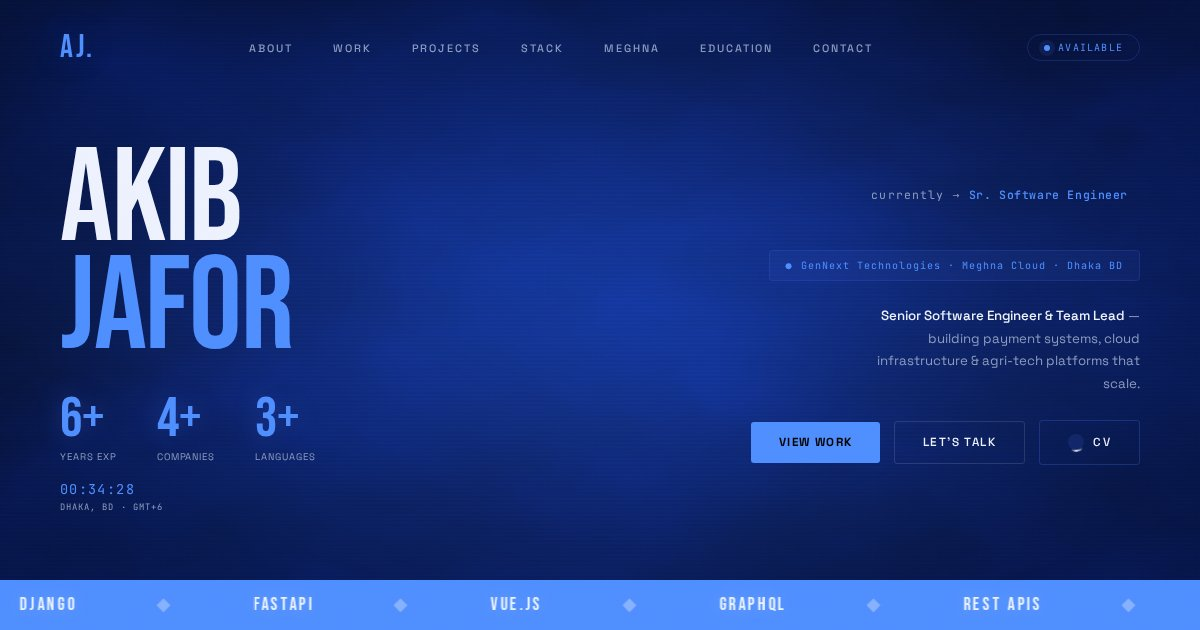
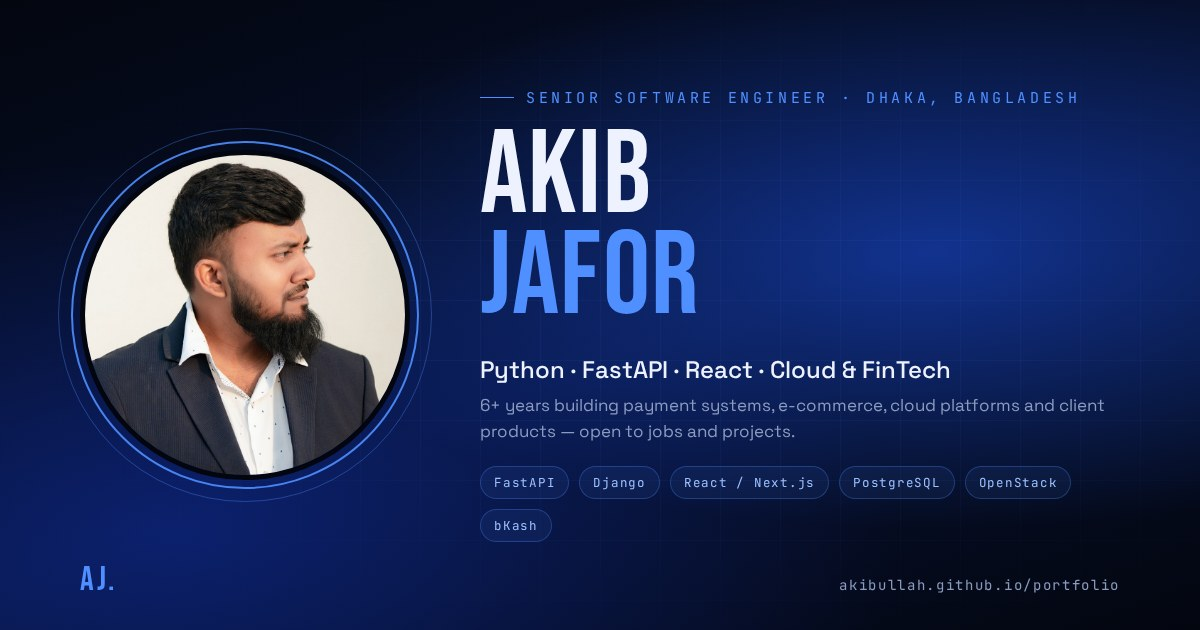
Social preview: headshot card with name, title and stack; bust preview caches

diff --git a/akib_final.html b/akib_final.html
@@ -11,10 +11,10 @@
 <meta property="og:description" content="Payment gateways, FastAPI/Django backends, OpenStack cloud platforms and Vue.js dashboards. 6+ years across FinTech, cloud and AgriTech. Dhaka, Bangladesh — open to jobs and client projects.">
 <meta property="og:type" content="website">
 <meta property="og:url" content="https://akibullah.github.io/portfolio/">
-<meta property="og:image" content="https://akibullah.github.io/portfolio/og-image.jpg">
+<meta property="og:image" content="https://akibullah.github.io/portfolio/og-image.jpg?v=2">
 <meta property="og:image:width" content="1200">
 <meta property="og:image:height" content="630">
-<meta name="twitter:image" content="https://akibullah.github.io/portfolio/og-image.jpg">
+<meta name="twitter:image" content="https://akibullah.github.io/portfolio/og-image.jpg?v=2">
 <meta name="twitter:description" content="Payment gateways, FastAPI/Django backends, OpenStack cloud platforms and Vue.js dashboards. 6+ years across FinTech, cloud and AgriTech. Dhaka, Bangladesh.">
 <meta property="og:locale" content="en_US">
 <meta property="og:site_name" content="Akib Jafor — Portfolio">

diff --git a/index.html b/index.html
@@ -11,10 +11,10 @@
 <meta property="og:description" content="Payment gateways, FastAPI/Django backends, OpenStack cloud platforms and Vue.js dashboards. 6+ years across FinTech, cloud and AgriTech. Dhaka, Bangladesh — open to jobs and client projects.">
 <meta property="og:type" content="website">
 <meta property="og:url" content="https://akibullah.github.io/portfolio/">
-<meta property="og:image" content="https://akibullah.github.io/portfolio/og-image.jpg">
+<meta property="og:image" content="https://akibullah.github.io/portfolio/og-image.jpg?v=2">
 <meta property="og:image:width" content="1200">
 <meta property="og:image:height" content="630">
-<meta name="twitter:image" content="https://akibullah.github.io/portfolio/og-image.jpg">
+<meta name="twitter:image" content="https://akibullah.github.io/portfolio/og-image.jpg?v=2">
 <meta name="twitter:description" content="Payment gateways, FastAPI/Django backends, OpenStack cloud platforms and Vue.js dashboards. 6+ years across FinTech, cloud and AgriTech. Dhaka, Bangladesh.">
 <meta property="og:locale" content="en_US">
 <meta property="og:site_name" content="Akib Jafor — Portfolio">
